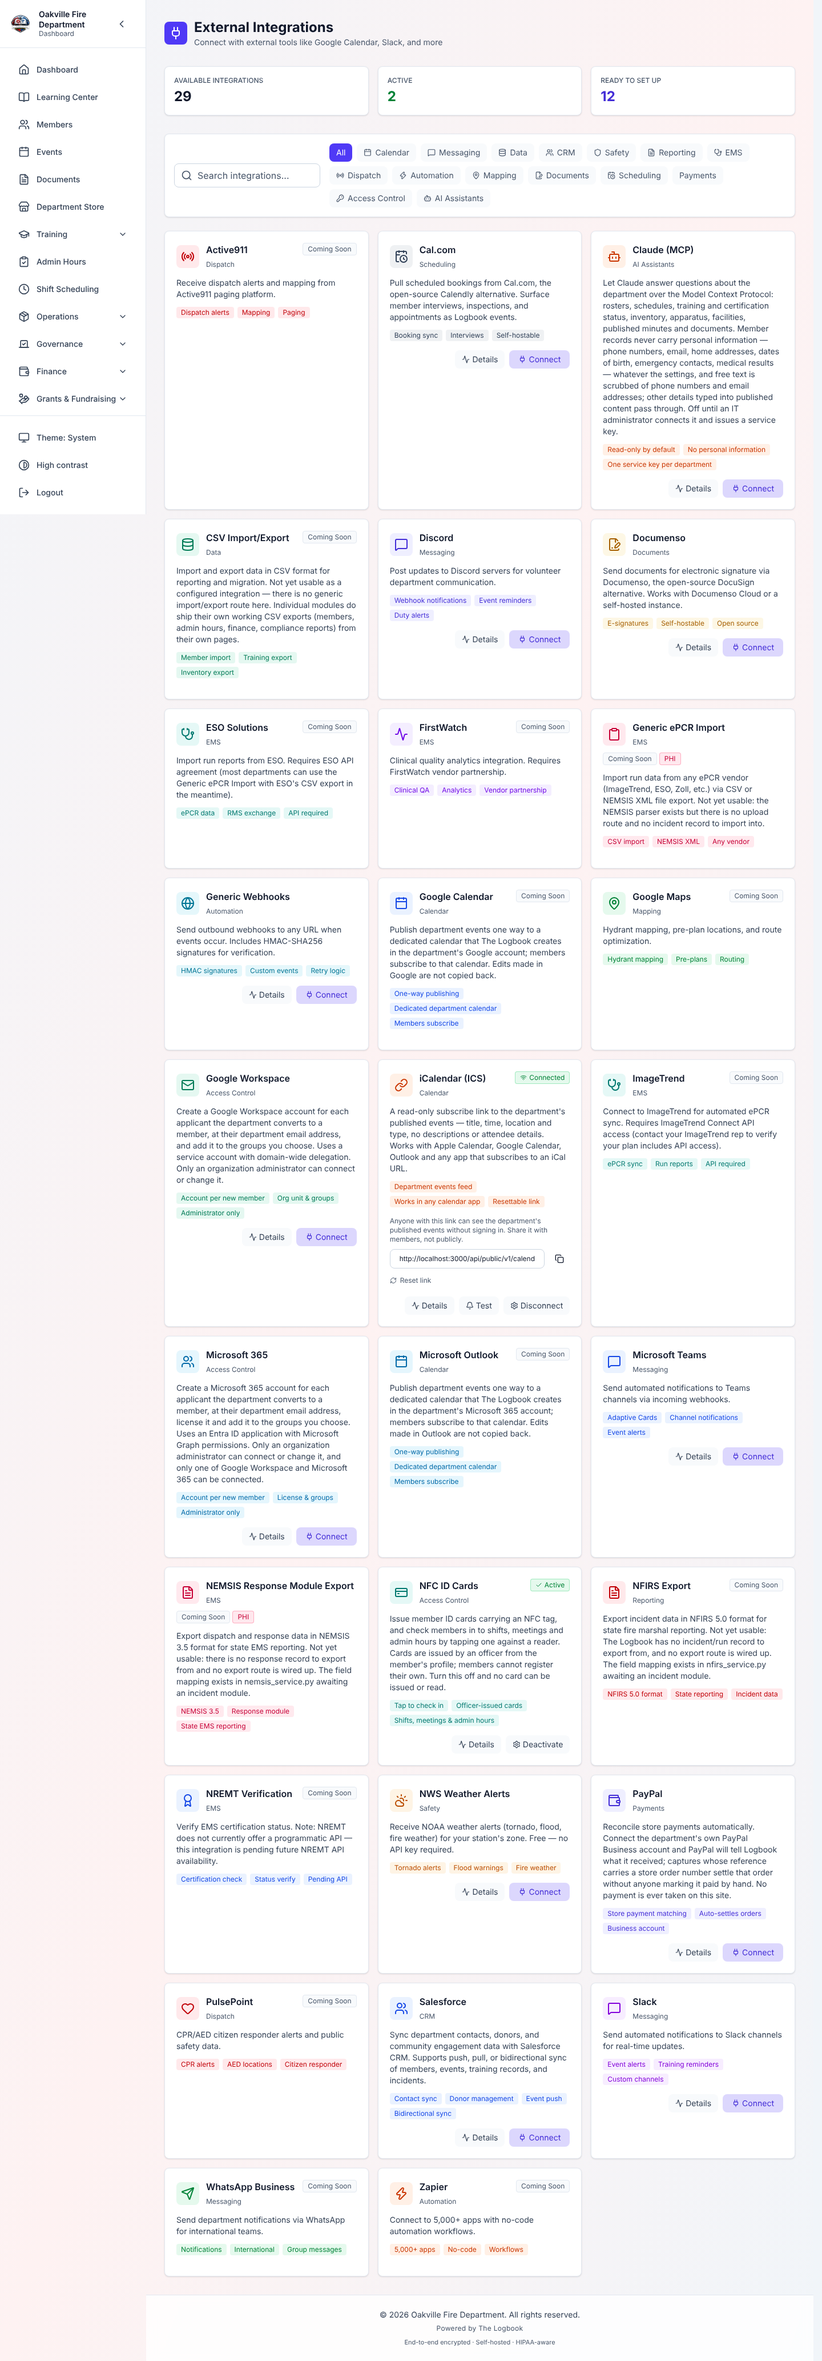
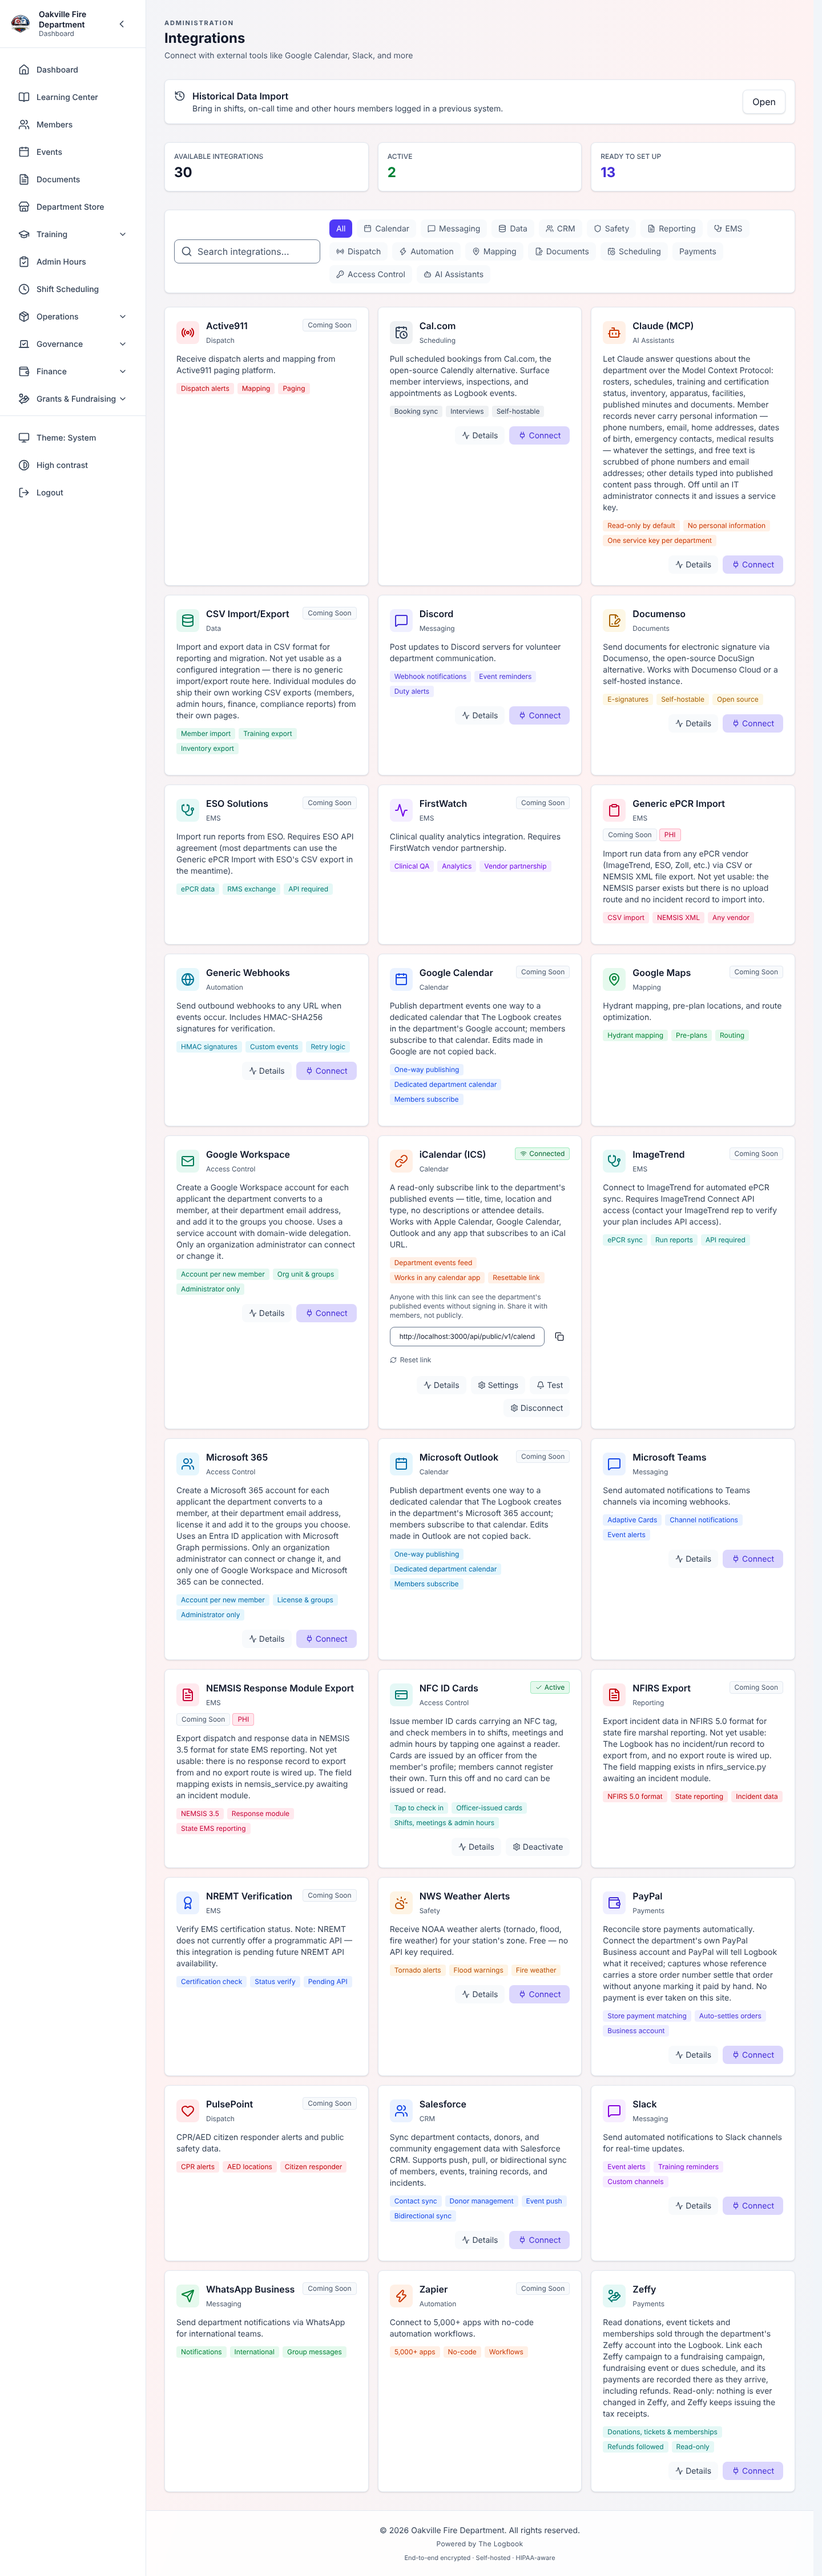
Capture the Zeffy screenshots and apply them to guides 12 and 16
Captures the Grants & Fundraising menu, the Zeffy page and the Link Zeffy
campaign dialog (guide 12) and the Zeffy connect dialog (guide 16), and
re-shoots the integrations catalog, which predated the Zeffy card.

The connect shot is 16-24: 16-19 was already taken. The menu shot waits
for the group's own auto-expand, since clicking it collapses it. The Zeffy
page shot names its one empty-state match, a status filter label. Also
formats the manifest additions from the previous commit.

Claude-Session: https://claude.ai/code/session_01Tku43B6su7WKAZ4WRiBmC6

diff --git a/docs/training/SCREENSHOT_CURRENCY.md b/docs/training/SCREENSHOT_CURRENCY.md
@@ -209,14 +209,25 @@ Nothing was captured by this pass.
 ## Queued by the November 2 Zeffy documentation pass
 
 Source: [CHANGE_AUDIT_2026-11](../CHANGE_AUDIT_2026-11.md#change-audit-zeffy-integration-november-2-2026).
-Nothing was captured by this pass.
+Captured 2026-11-13, on a demo department seeded from `main` at `9f73cec7`
+with malware scanning on.
 
-| Guide | Screen | Action |
-| --- | --- | --- |
-| 16 | Integrations catalog with the **Zeffy** card, and its connect dialog (API key, signing secret, webhook address) | Create |
-| 12 | **Grants & Fundraising → Zeffy**: connection panel, campaign cards and the payments list | Create |
-| 12 | **Link Zeffy campaign** dialog | Create |
-| 12 | Grants & Fundraising menu with the **Zeffy** entry | Replace |
+| Guide | Screen | Action | Captured |
+| --- | --- | --- | --- |
+| 16 | Integrations catalog with the **Zeffy** card, and its connect dialog (API key, signing secret, webhook address) | Create | `16-24-zeffy-connect` new; `16-01-integrations-catalog` re-shot, now carrying the Zeffy card |
+| 12 | **Grants & Fundraising → Zeffy**: connection panel, campaign cards and the payments list | Create | `12-19-zeffy-page` |
+| 12 | **Link Zeffy campaign** dialog | Create | `12-20-zeffy-link-dialog` |
+| 12 | Grants & Fundraising menu with the **Zeffy** entry | Replace | `12-18-grants-menu-zeffy` new; no earlier image pictured this menu |
+
+**The Zeffy page is pictured from a route mock.** Every row on it comes from
+Zeffy: campaigns are read live with the department's API key, and a payment
+exists only once Zeffy's webhook or the hourly sync reports it. The demo has no
+Zeffy account, so `mockZeffyConnected()` in `scripts/screenshots/manifest.mjs`
+answers the page's status, links, campaigns and payments reads, and nothing is
+written. The links point at the seeded Fill the Boot campaign and the year's
+Annual Member Dues. The link dialog's choice of campaign comes from the real
+API. A change to `app/schemas/zeffy.py` or to the page's statuses needs the mock
+updated before these three images are re-shot.
 
 ## The October 16 – November 1 queues, captured 2026-11-02
 
@@ -803,7 +814,7 @@ integration, and an approval chain no request has used.
 
 | Image                                  | Disposition            | Notes                                                                                                                               |
 | -------------------------------------- | ---------------------- | ----------------------------------------------------------------------------------------------------------------------------------- |
-| `16-01-integrations-catalog` (re-shot) | **CURRENT** 2026-10-17 | Google Calendar and Microsoft Outlook read **Coming Soon** with their one-way publishing chips; the iCalendar card is connected     |
+| `16-01-integrations-catalog` (re-shot) | **CURRENT** 2026-11-13 | Google Calendar and Microsoft Outlook read **Coming Soon** with their one-way publishing chips; the iCalendar card is connected; re-shot 2026-11-13 to add the Zeffy card |
 | `16-16-ical-department-feed`           | **CURRENT** 2026-10-17 | New: the connected iCalendar card with the department feed link, copy button and **Reset link**                                     |
 | `12-04-create-application` (re-shot)   | **CURRENT** 2026-10-17 | Funding Details carries **Amount Awarded**, and the form's subtitle is the "Only the program name and agency are required" line     |
 | `12-15-record-pledge-reminders`        | **CURRENT** 2026-10-17 | New: **Record pledge** with **Send reminders** ticked and its help text; filled in, never saved                                     |

diff --git a/docs/training/12-grants-fundraising.md b/docs/training/12-grants-fundraising.md
@@ -39,9 +39,7 @@ settings. Beneath it are **Dashboard**, **Opportunities**, **Applications**,
 **Campaigns**, **Donors**, **Donations**, **Pledges**, **Events**, **Zeffy** and
 **Reports**.
 
-<!-- Screenshot needed:
-The sidebar with Grants & Fundraising expanded, as an administrator: Dashboard through Reports with Zeffy between Events and Reports, Zeffy selected.
--->
+![The sidebar with Grants & Fundraising expanded: Dashboard, Opportunities, Applications, Campaigns, Donors, Donations, Pledges, Events, Zeffy and Reports, with Zeffy selected](./images/12-18-grants-menu-zeffy.png)
 
 ### Permissions
 
@@ -758,9 +756,7 @@ At the top of the page:
 
 **Sync now** reads Zeffy at once instead of waiting for the hour.
 
-<!-- Screenshot needed:
-Grants & Fundraising, Zeffy page as a fundraising manager with Zeffy connected: the Connection panel, the Campaigns cards (linked ones naming their record and start date, one Not linked), and the Payments list with its status filter and a mix of statuses.
--->
+![The Zeffy page: the Connection panel with Instant updates on, the last sync and one payment needing attention; four Zeffy campaigns, two linked (Fill the Boot to the Fill the Boot campaign, Annual Membership to the year's Annual Member Dues) and two Not linked; and the Payments list with its status filter and payments that are Applied, Campaign not linked, No member match, Processing and Reversed](./images/12-19-zeffy-page.png)
 
 ### Linking a Campaign
 
@@ -787,9 +783,7 @@ recorded only** until you link it.
 4. Decide **Apply payments made on or after** (see below).
 5. Select **Save link**.
 
-<!-- Screenshot needed:
-The Link Zeffy campaign dialog for a donation campaign: Record payments as Fundraising campaign with its explanation, a campaign chosen, and Apply payments made on or after left blank with its warning about counting gifts twice.
--->
+![Link Zeffy campaign for the Equipment Fund Appeal: Record payments as Fundraising campaign, with the note that each payment becomes a donation from a donor matched by email; the year's Equipment Fund chosen; and Apply payments made on or after left blank, with its warning that an earlier date can count hand-entered gifts twice](./images/12-20-zeffy-link-dialog.png)
 
 Payments Zeffy already reported for that campaign are applied straight away, if
 they fall on or after the start date.

diff --git a/docs/training/SCREENSHOT_STATUS.md b/docs/training/SCREENSHOT_STATUS.md
@@ -9,7 +9,7 @@ image still matches the application is tracked by hand in
 [SCREENSHOT_CURRENCY.md](./SCREENSHOT_CURRENCY.md) — this file is
 regenerated wholesale, so that audit cannot live here.
 
-**929 of 929 placeholders filled** (0 remaining).
+**933 of 933 placeholders filled** (0 remaining).
 
 | Guide | Captured | Remaining |
 |-------|---------:|----------:|
@@ -25,12 +25,12 @@ regenerated wholesale, so that audit cannot live here.
 | [09-skills-testing.md](./09-skills-testing.md) | 36 | 0 |
 | [10-mobile-pwa.md](./10-mobile-pwa.md) | 25 | 0 |
 | [11-finance.md](./11-finance.md) | 26 | 0 |
-| [12-grants-fundraising.md](./12-grants-fundraising.md) | 13 | 0 |
+| [12-grants-fundraising.md](./12-grants-fundraising.md) | 16 | 0 |
 | [13-medical-screening.md](./13-medical-screening.md) | 9 | 0 |
 | [14-elections.md](./14-elections.md) | 28 | 0 |
 | [15-prospective-members.md](./15-prospective-members.md) | 47 | 0 |
-| [16-integrations.md](./16-integrations.md) | 21 | 0 |
+| [16-integrations.md](./16-integrations.md) | 22 | 0 |
 | [17-privacy-data-rights.md](./17-privacy-data-rights.md) | 7 | 0 |
 | [18-storefront.md](./18-storefront.md) | 9 | 0 |
-| **Total** | **929** | **0** |
+| **Total** | **933** | **0** |
 

diff --git a/docs/training/16-integrations.md b/docs/training/16-integrations.md
@@ -549,9 +549,7 @@ under **Grants & Fundraising → Zeffy** — see
 
 Leave either box blank on a later edit to keep what is stored.
 
-<!-- Screenshot needed:
-The Zeffy connect window opened from the Zeffy card on the Integrations page, as an administrator: the read-only note linking to Grants & Fundraising, the API Key and Webhook Signing Secret (optional) boxes, and the webhook address below them.
--->
+![Zeffy connect dialog: the read-only note linking to Grants & Fundraising, the API Key and Webhook Signing Secret (optional) fields, and the webhook address to add in Zeffy](./images/16-24-zeffy-connect.png)
 
 **Test** reads one campaign from Zeffy to prove the key works. It adds a note if
 no signing secret is set, because payments will then arrive only once an hour.
